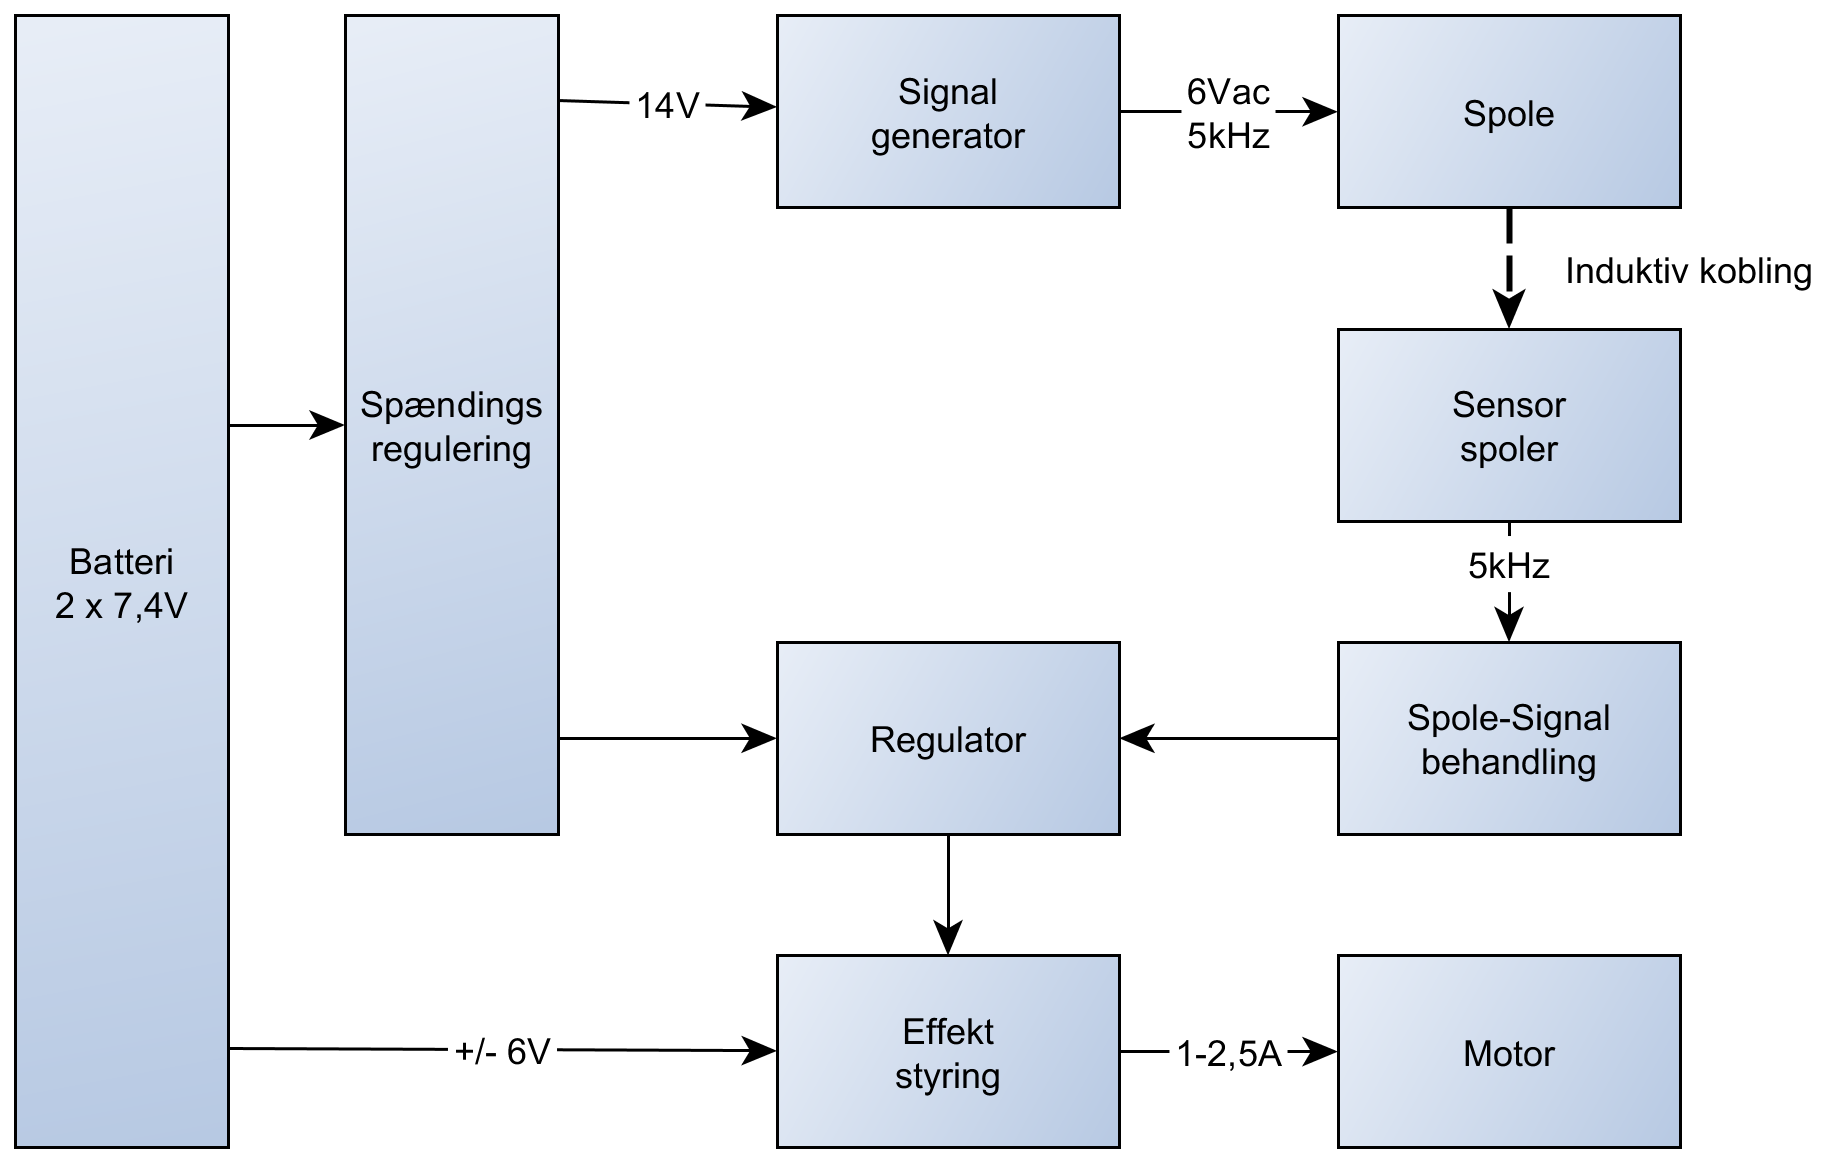
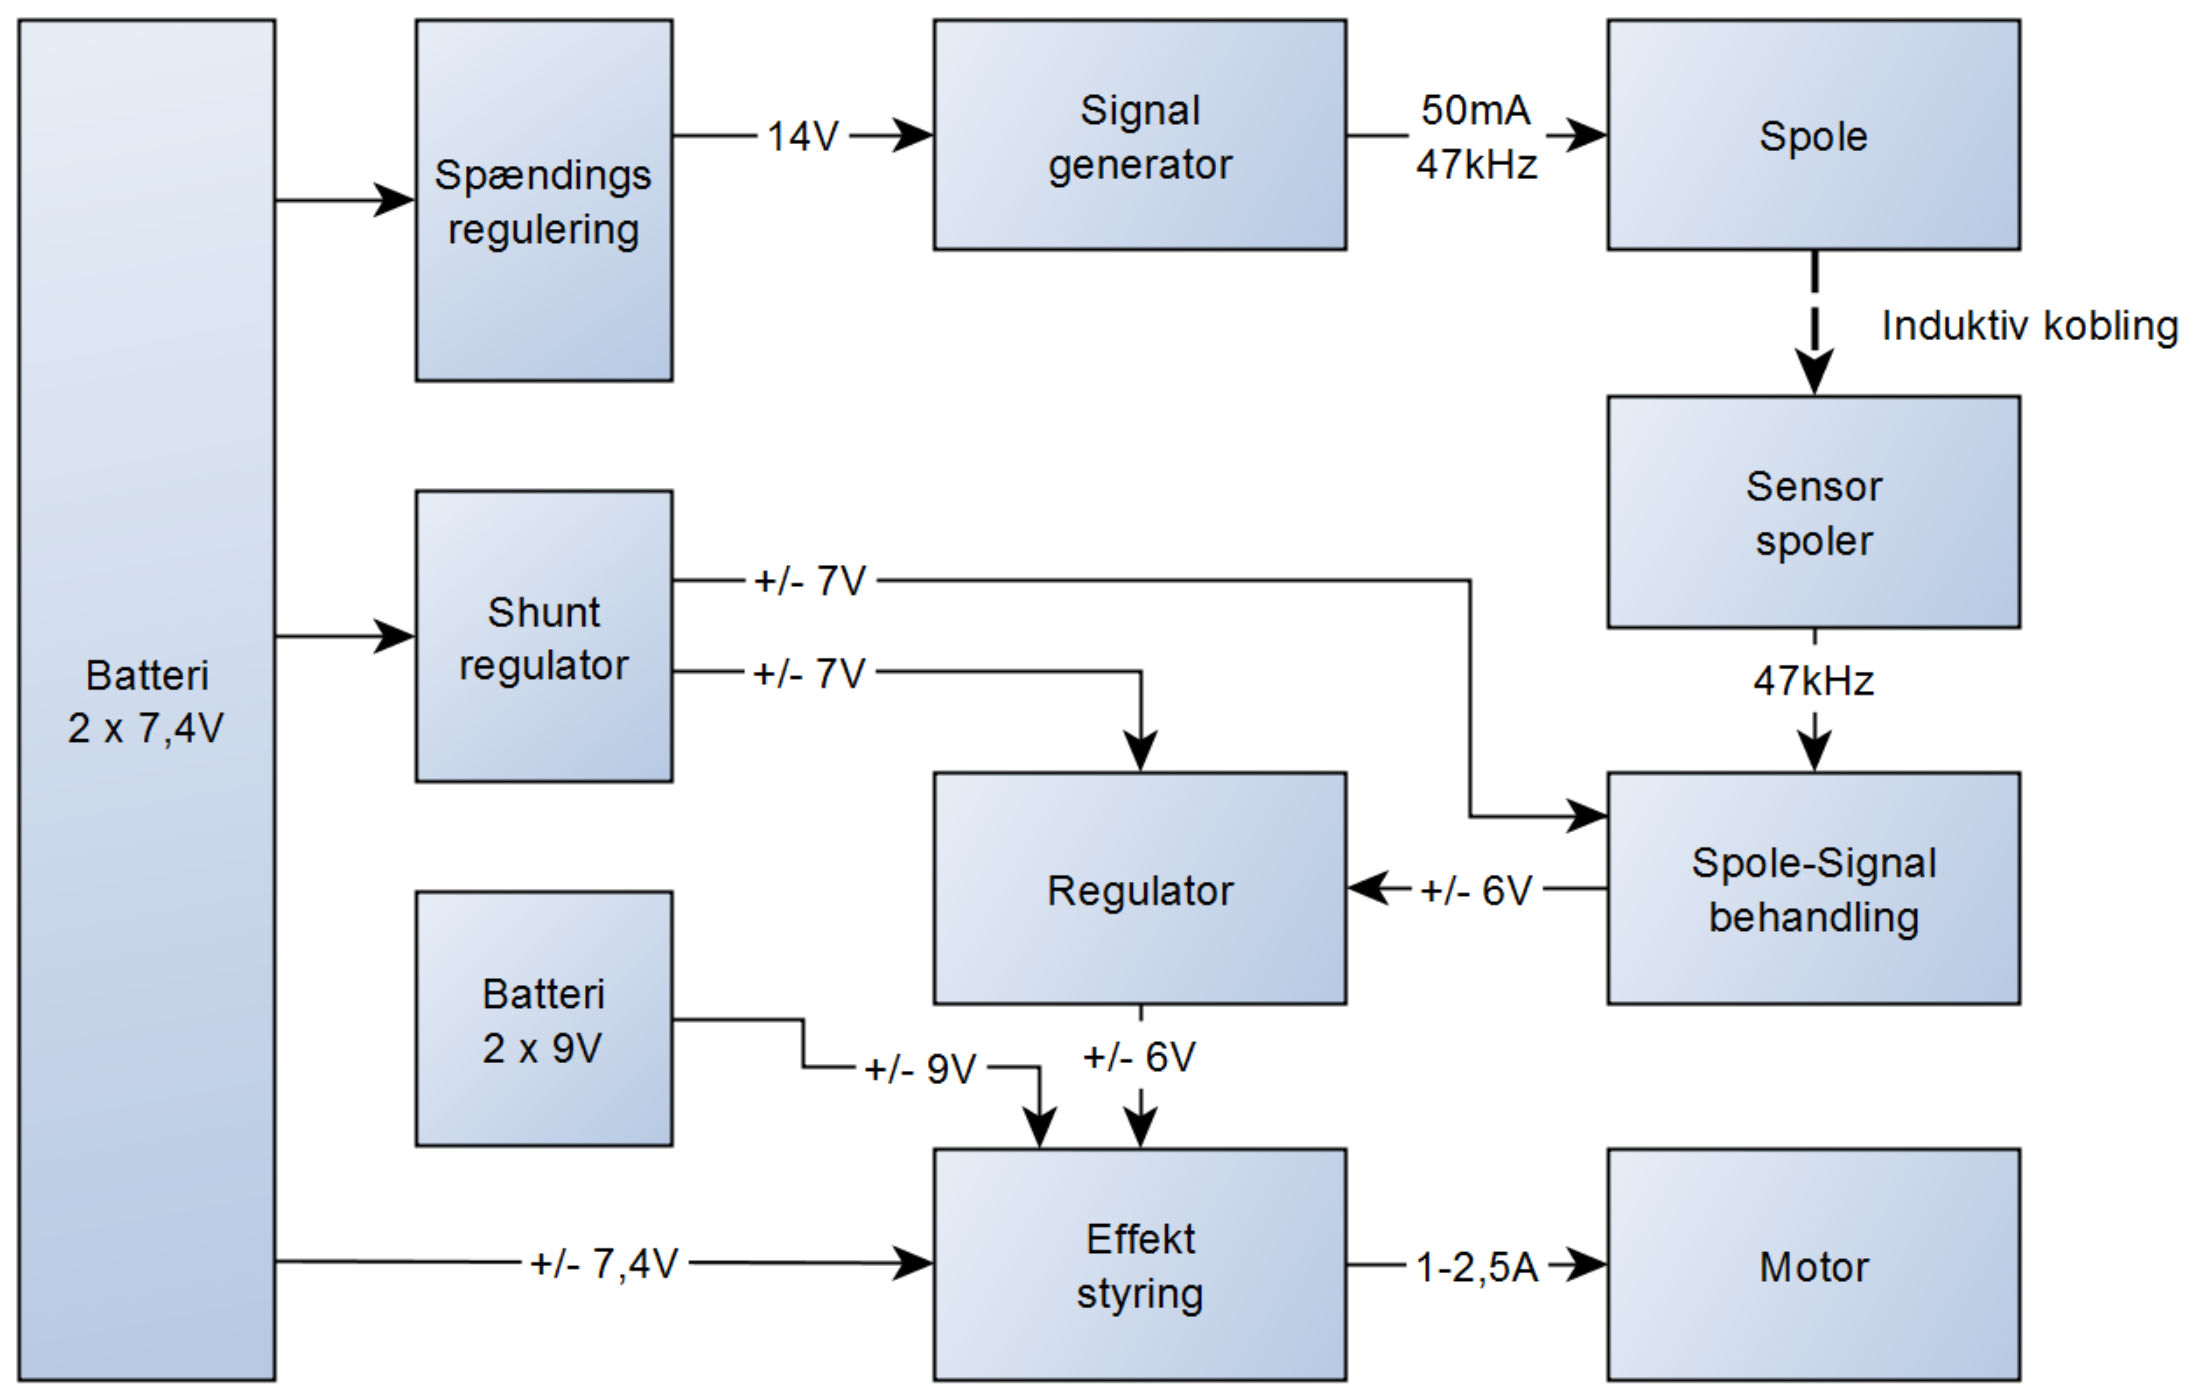
Blokdiagram opdateret

diff --git a/section/indledning.tex b/section/indledning.tex
@@ -50,9 +50,7 @@ Følgende medtages ikke i rapporten og afgrænser projektarbejdet:
 	\label{fig:blockdiagram1}
 \end{figure}
 \FloatBlock
-
-\husk{JJ}{Del diagram af system og signalvej ?}
-
+I figur \ref{fig:blockdiagram1} ses et blokdiagram over hele systemets opbygning. Da de selvvalgte krav gør rede for at der ønskes batteridrift startes der dér. 
 
 \section{Læsevejledning}
 Denne rapports struktur er delt op i hovedsektioner og undersektioner.
@@ -60,7 +58,6 @@ Rapporten er opbygget taksonomisk.
 Derudover indeholder hvert kapitel en delkonklusion og opsummering af kapitlets gennemgang.
 For at få mest ud af denne rapport, anbefales at læse fra start til slut i punktform, da opbygningen er baseret på systemets signalvej.
 Man vil få en forståelse for hvordan hele systemet er bygget op, både teoretisk og praktisk. 
-
 
 \section{Proces- og arbejdsmetode}
 Under projektforløbet har et Gantt-diagram dannet oversigt over arbejdsopgaverne, hvilket har givet et godt arbejdsflow. Ugentlige opsummeringsmøder og 'to-do'-lister har sørget for, at opgaverne blev lavet til tiden.
